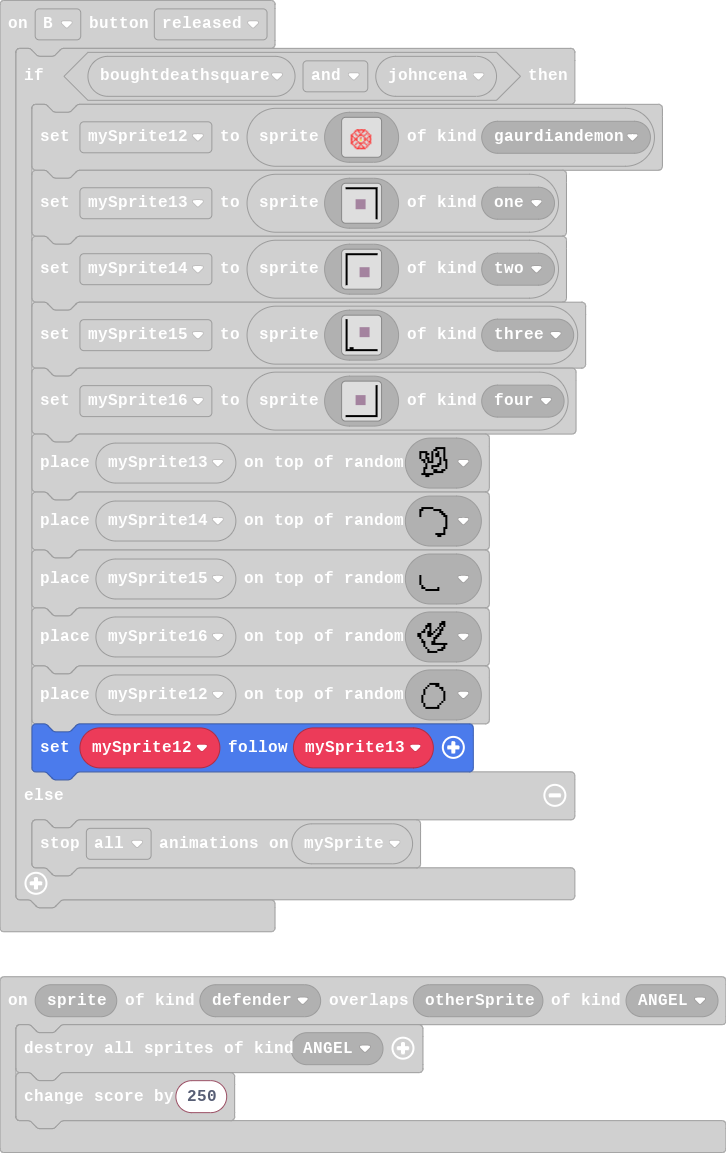
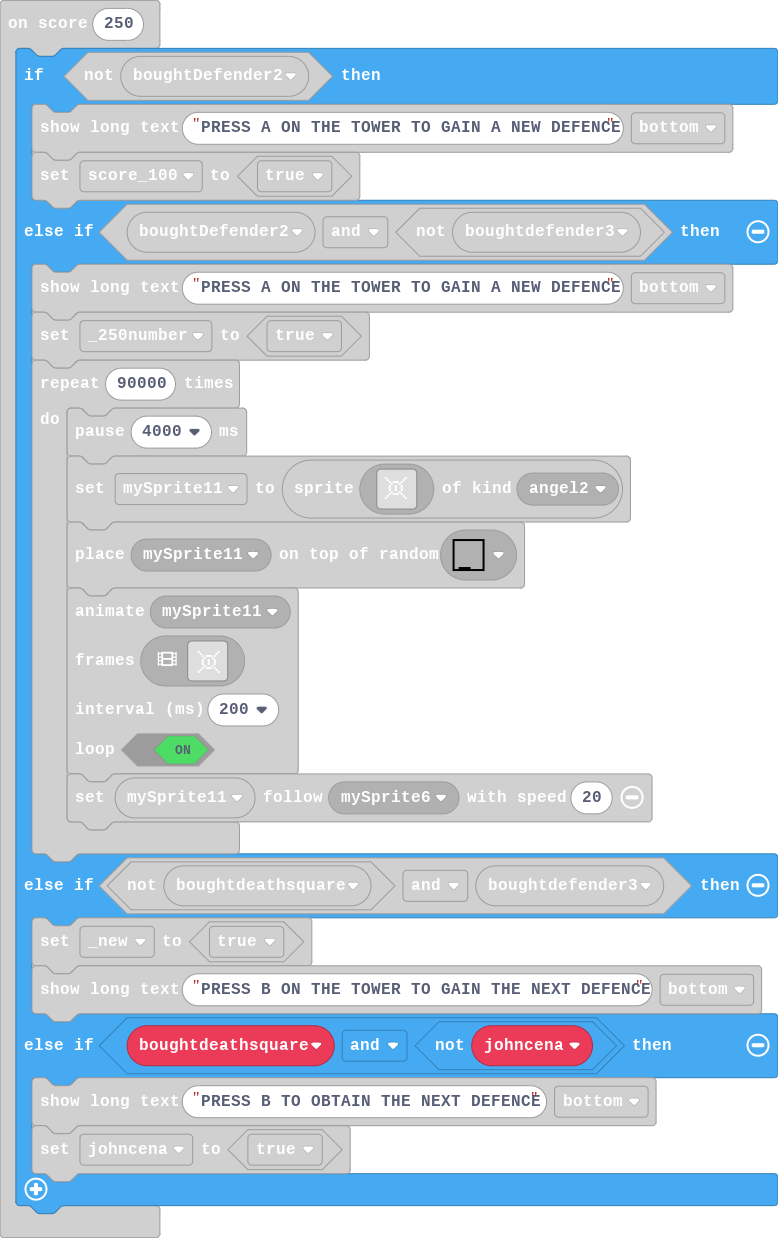
Update main.blocks, main.ts

diff --git a/main.ts b/main.ts
@@ -67,7 +67,7 @@ info.onScore(250, function () {
     } else if (!(boughtdeathsquare) && boughtdefender3) {
         _new = true
         game.showLongText("PRESS B ON THE TOWER TO GAIN THE NEXT DEFENCE", DialogLayout.Bottom)
-    } else if (boughtdeathsquare) {
+    } else if (boughtdeathsquare && !(johncena)) {
         game.showLongText("PRESS B TO OBTAIN THE NEXT DEFENCE", DialogLayout.Bottom)
         johncena = true
     }
@@ -622,11 +622,11 @@ let mySprite9: Sprite = null
 let mySprite8: Sprite = null
 let mySprite15: Sprite = null
 let mySprite12: Sprite = null
-let johncena = false
 let _new = false
 let mySprite11: Sprite = null
 let _250number = false
 let score_100 = false
+let johncena = false
 let boughtdeathsquare = false
 let boughtdefender3 = false
 let boughtDefender2 = false
